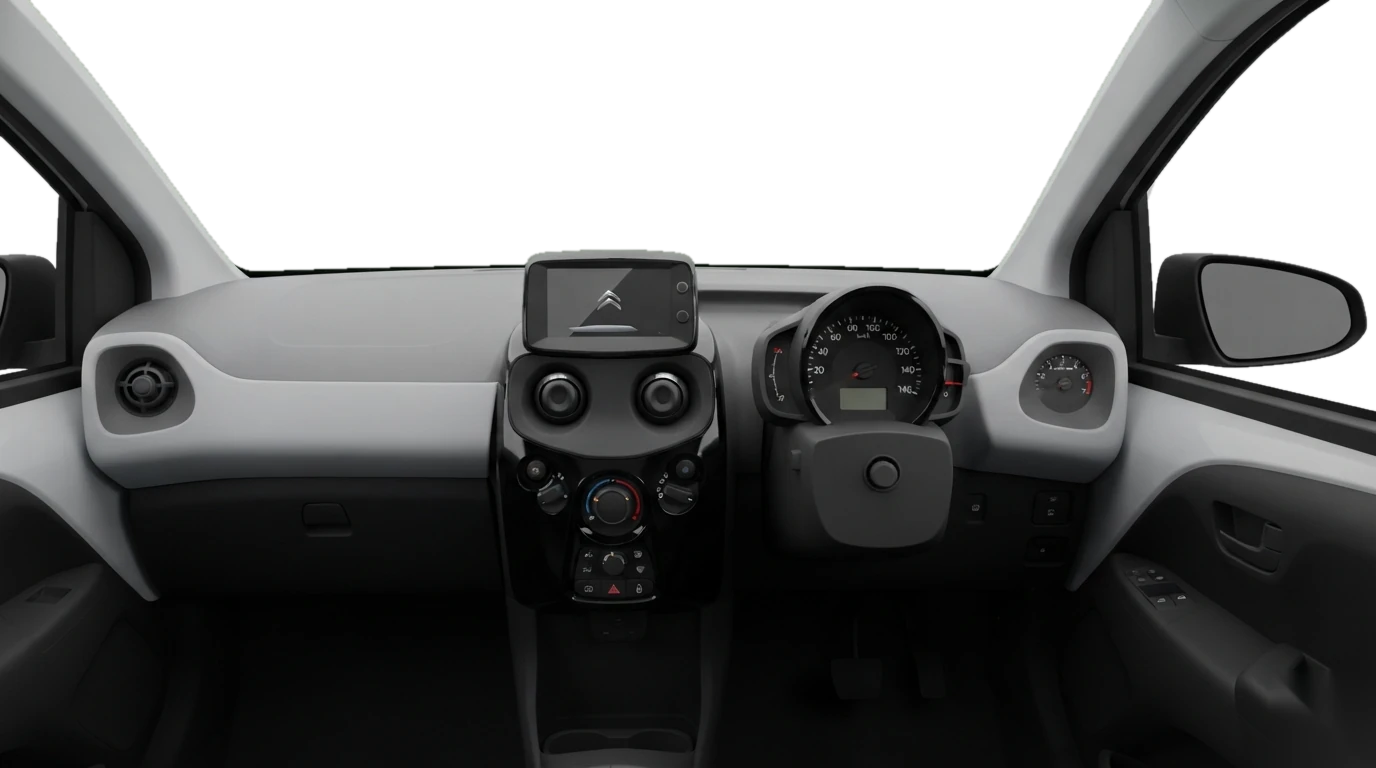
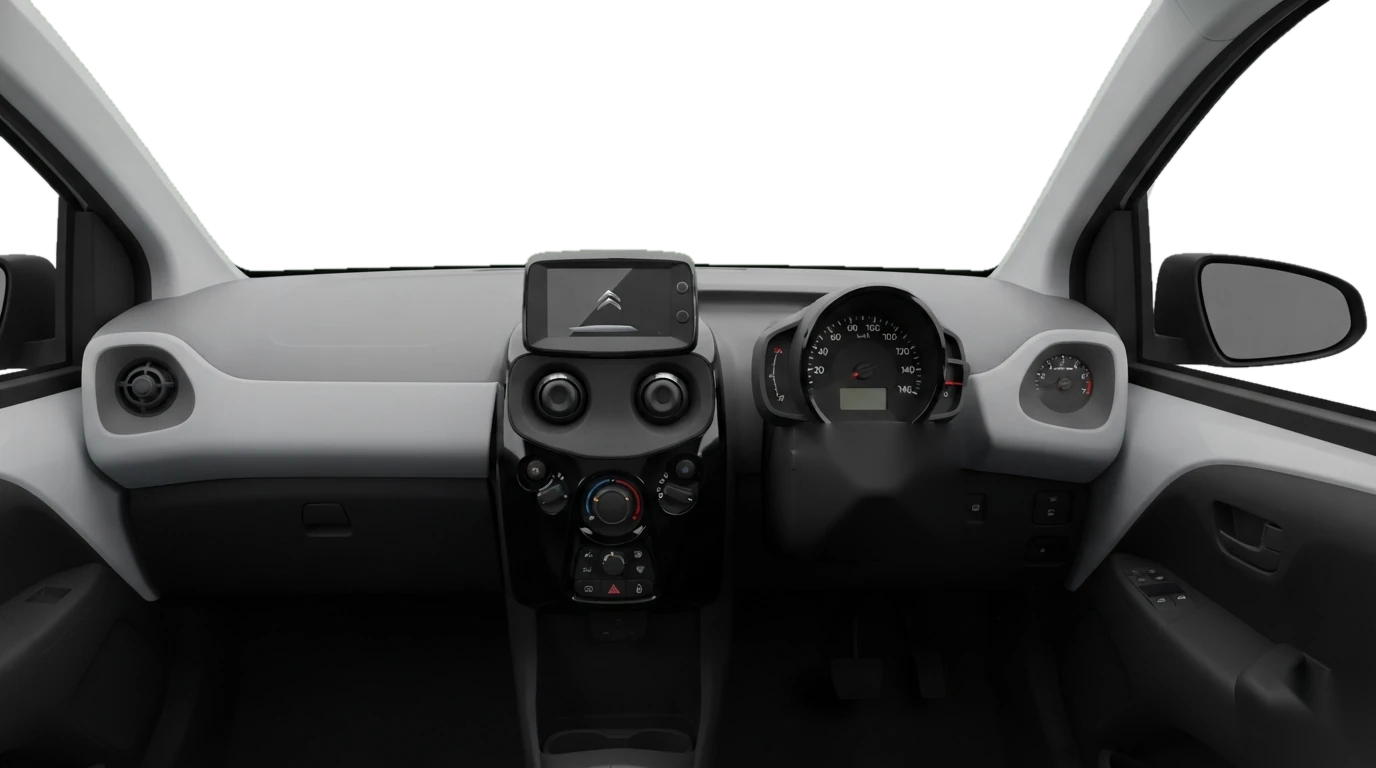
C1 cockpit: lower the dash, wheel hub under the dials, remove baked steering pad
Claude-Session: https://claude.ai/code/session_0152oZwGpsfHUWFfvXYNFZ4i

Changed region(s): [[0.5625, 0.5312, 0.7188, 0.7188]]

diff --git a/public/js/fp.js b/public/js/fp.js
@@ -43,7 +43,7 @@ const CK=[
 ];
 
 // image-based cockpit (made from supplied artwork) for cars that have it
-const IMG={0:{dash:'assets/c1-dash.webp',wheel:'assets/c1-wheel.webp',W:1376,H:768,wc:[880,680],wd:363,
+const IMG={0:{dash:'assets/c1-dash.webp',wheel:'assets/c1-wheel.webp',W:1376,H:768,wc:[880,545],wd:260,
  dials:[{k:'spd',c:[865,368],len:52,th:3.6,a0:154,sw:229,mx:150},{k:'rpm',c:[1065,384],len:21,th:2.6,a0:158,sw:210}]}};
 let imgBox=null,imgNeedles=null;
 function buildImg(i){const c=IMG[i];ckI=i;
@@ -52,7 +52,11 @@ function buildImg(i){const c=IMG[i];ckI=i;
  h+=`<img id="fpWheel" src="${c.wheel}" style="position:absolute;left:${c.wc[0]-c.wd/2}px;top:${c.wc[1]-c.wd/2}px;width:${c.wd}px;height:${c.wd}px">`;
  dash.innerHTML=h+'</div>';wheel=dash.querySelector('#fpWheel');imgBox=dash.querySelector('#fpBox');needles=null;
  imgNeedles=[...dash.querySelectorAll('.fn')].map((e,n)=>[c.dials[n],e])}
-function fitImg(){if(!imgBox)return;const c=IMG[ckI];if(!c)return;const W=innerWidth,H=innerHeight,s=W/c.W,ty=Math.max(H*.8-(c.wc[1]-c.wd*.48)*s,H-c.H*s);imgBox.style.transform=`translate(0px,${ty}px) scale(${s})`}
+function fitImg(){if(!imgBox)return;const c=IMG[ckI];if(!c)return;const W=innerWidth,H=innerHeight,s=.37*H/(c.wc[1]-265),tx=(W-c.W*s)/2,ty=.95*H-c.wc[1]*s;
+ imgBox.style.transform=`translate(${tx}px,${ty}px) scale(${s})`;
+ let L=dash.querySelector('#fpL'),R=dash.querySelector('#fpR');
+ if(!L){dash.insertAdjacentHTML('afterbegin','<div id="fpL" style="position:absolute;left:0;background:#131313"></div><div id="fpR" style="position:absolute;right:0;background:#171717"></div>');L=dash.querySelector('#fpL');R=dash.querySelector('#fpR')}
+ const t=ty+410*s,w=Math.max(0,tx)+1;for(const e of[L,R]){e.style.top=t+'px';e.style.bottom='0';e.style.width=w+'px';e.style.display=tx>0?'block':'none'}}
 addEventListener('resize',fitImg);
 function updImg(v){if(!imgNeedles)return;const mph=v*2.237,f=Math.min(1,v/42);for(const[d,e]of imgNeedles){const p=d.k==='spd'?Math.min(1,mph/d.mx):(.12+.5*f+.15*((v*.35)%1));e.style.transform='rotate('+(d.a0+p*d.sw)+'deg)'}}
 let ckI=-1;
